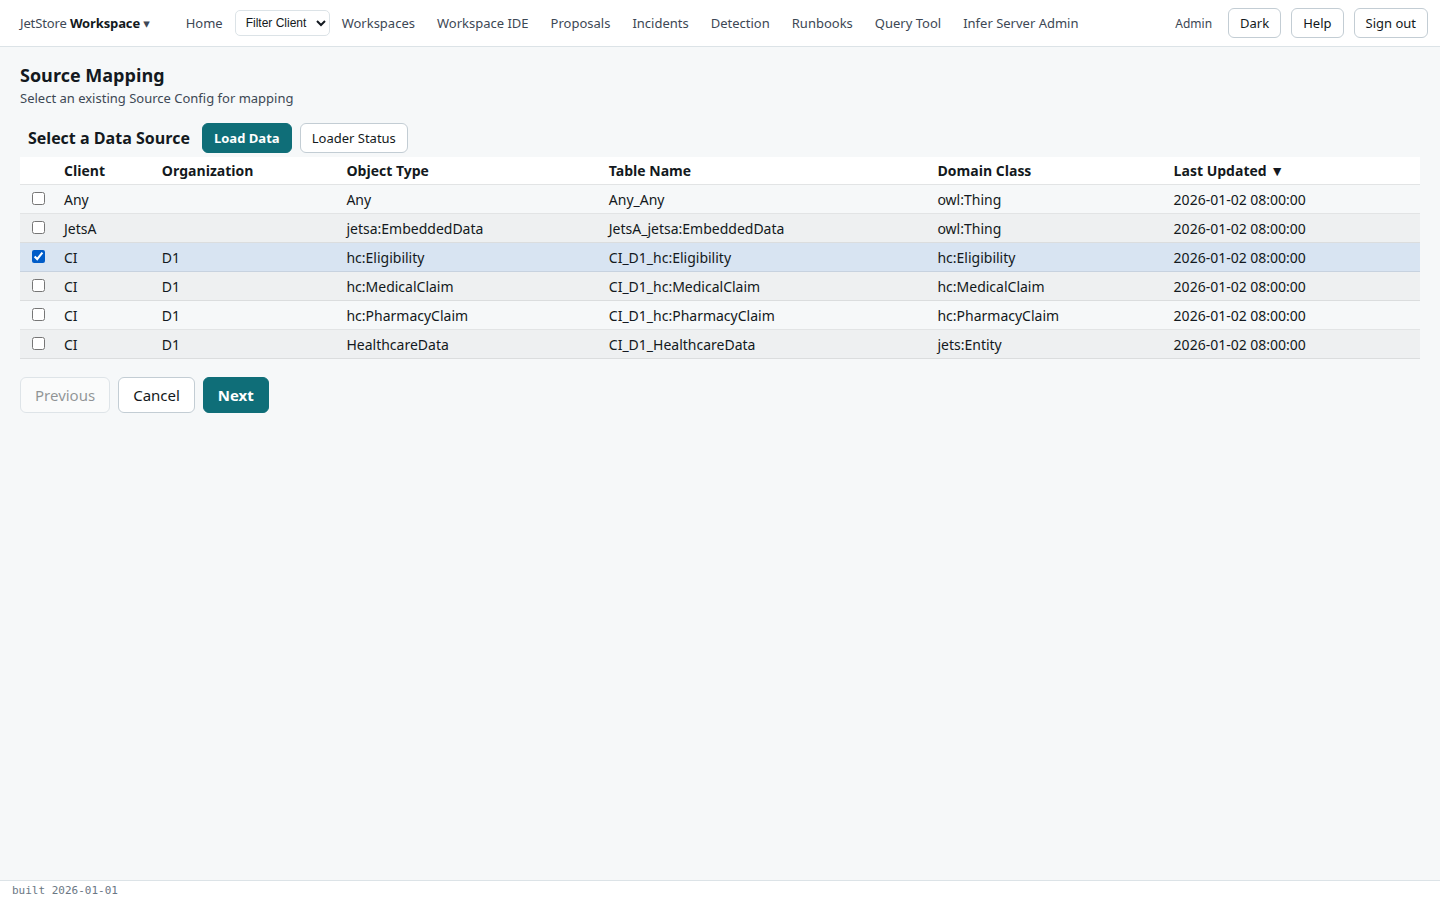
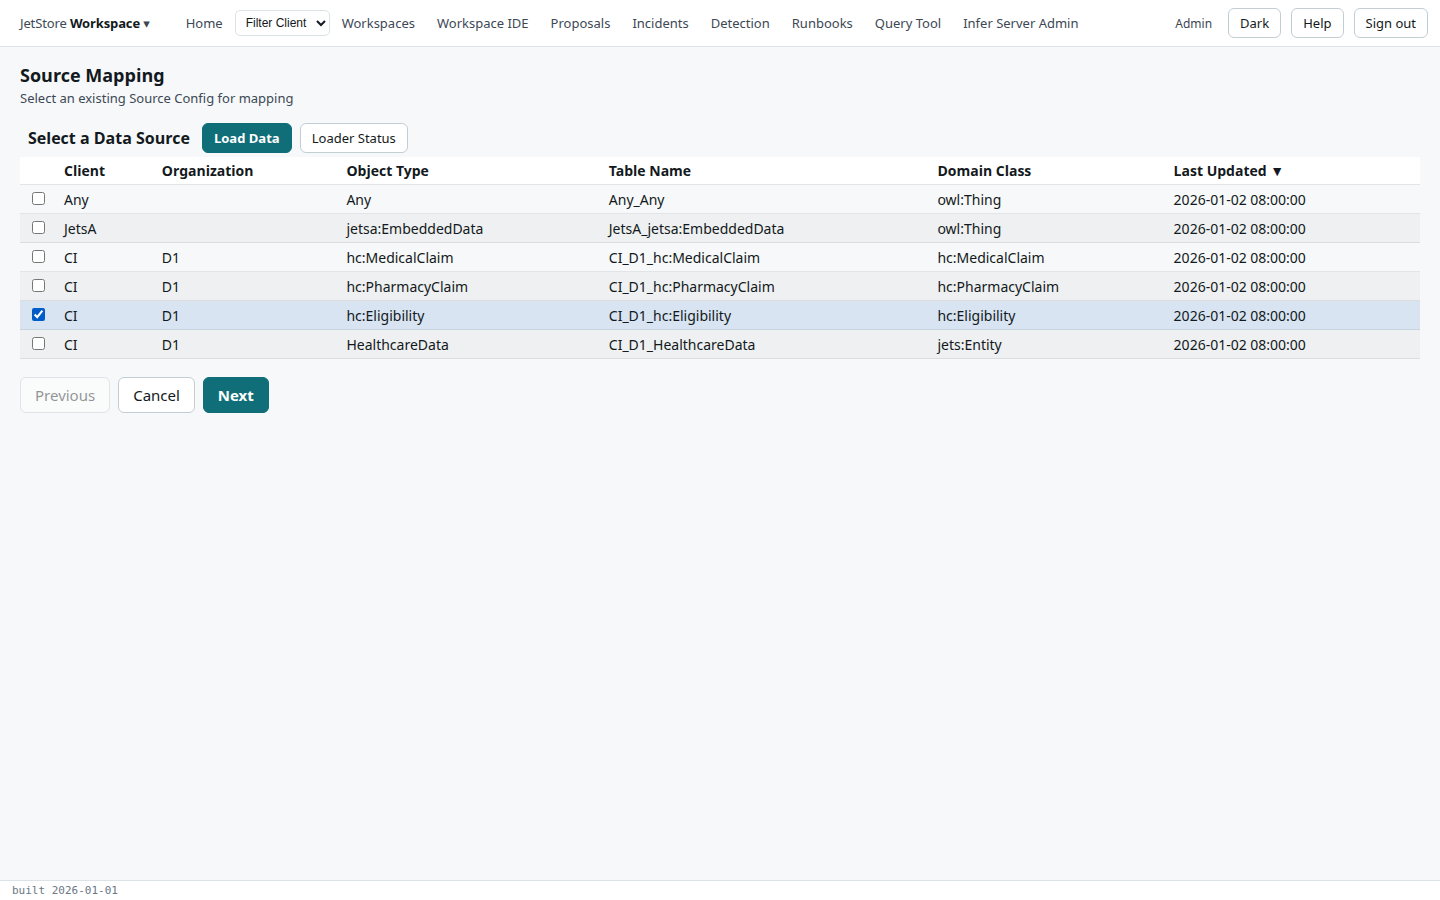
docs: the help map points at the User Guide; cross-links; stable screenshots
The Help button now opens each screen's own page. Every route of App.tsx
names a page under user/screens/, except the catch-all, which keeps the User
Guide's landing page. The eleven titled JetStore flows have their pages in
FLOW_TOPICS, and any other flow lands on the flows' overview. A detail route
(a proposal, an incident, a runbook's run) shares its list's page.
helpTopics.test.ts gains two rules: no route but * may name the landing page,
and every titled flow in jets/workspace_assets/user_flows/ needs a
FLOW_TOPICS row. So a new screen or flow without a page fails the web app's
tests.

Cross-links between the pages written in parallel:
- the screen and flow index tables list every screen and flow;
- the landing page links its tutorials, how-to and screens sections;
- concept, screen and flow pages end with a See also list of the pages that
  show or do what they describe.

docs/screenshots/fixtures/99_analyze.sql runs ANALYZE after the other
fixtures. A data table sorts by one column with LIMIT and OFFSET, so rows
that tie come back in the order the plan produces. Whether autovacuum had
analysed a table first changed that order between runs, and rewrote images
for no change in the UI. With it, three full runs in a row rewrote nothing
after the first, which reordered two lists once.

CLAUDE.md: a screen or flow has a page and a screenshot spec, and a change
to one updates both.

Changed region(s): [[0.0, 0.2489, 1.0, 0.3733]]

diff --git a/jetsclient_ide/src/shell/helpTopics.ts b/jetsclient_ide/src/shell/helpTopics.ts
@@ -15,8 +15,11 @@
  * behind it — so renaming or moving a page the map names means updating the
  * map in the same change.
  *
- * Most routes point at the User Guide's landing page until their screen has a
- * page of its own: the table is complete in routes and sparse in pages.
+ * **Every route but `*` names a page of its own**, and every JetStore flow with
+ * a title has a row in `FLOW_TOPICS`; the test fails on a new route or a new
+ * titled flow without one. A detail route (a proposal, an incident, a run)
+ * shares its list's page, and `flow/:key` lands on the flows' overview for a
+ * flow `FLOW_TOPICS` does not list, such as a workspace's own.
  */
 
 import { matchPath } from "react-router-dom";
@@ -39,33 +42,33 @@ export const DEFAULT_HELP_PAGE = "user/";
  * wins, so `*` stays last.
  */
 export const HELP_TOPICS: ReadonlyArray<HelpTopic> = [
-  { route: "/register", page: "user/" },
-  { route: "/", page: "user/" },
-  { route: "login", page: "user/" },
-  { route: "home", page: "user/" },
-  { route: "workspace", page: "user/" },
-  { route: "workspaces/:workspace_name/home", page: "user/" },
-  { route: "workspaces", page: "user/" },
-  { route: "inferServerAdmin", page: "user/" },
-  { route: "proposals", page: "user/" },
-  { route: "proposals/:proposalId", page: "user/" },
-  { route: "incidents", page: "user/" },
-  { route: "incidents/:incidentId", page: "user/" },
-  { route: "detection", page: "user/" },
-  { route: "runbooks", page: "user/" },
-  { route: "workspaces/:workspace_name/runbooks", page: "user/" },
-  { route: "runbooks/run/:run_key", page: "user/" },
-  { route: "flow/:key", page: "user/" },
-  { route: "git-profile", page: "user/" },
-  { route: "domainTableViewer/:table_name/:session_id", page: "user/" },
-  { route: "filePreviewPath/:file_key", page: "user/" },
-  { route: "executionStatusDetails/:session_id", page: "user/" },
-  { route: "executionStatsDetails/:session_id", page: "user/" },
-  { route: "query-tool", page: "user/" },
-  { route: "processErrors/:session_id", page: "user/" },
-  { route: "userAdmin", page: "user/" },
-  { route: "ruleConfig", page: "user/" },
-  { route: "fileLoaderStatus", page: "user/" },
+  { route: "/register", page: "user/screens/sign-in/" },
+  { route: "/", page: "user/screens/home/" },
+  { route: "login", page: "user/screens/sign-in/" },
+  { route: "home", page: "user/screens/home/" },
+  { route: "workspace", page: "user/screens/workspace-ide/" },
+  { route: "workspaces/:workspace_name/home", page: "user/screens/workspace-ide/" },
+  { route: "workspaces", page: "user/screens/workspaces/" },
+  { route: "inferServerAdmin", page: "user/screens/infer-server-admin/" },
+  { route: "proposals", page: "user/screens/proposals/" },
+  { route: "proposals/:proposalId", page: "user/screens/proposals/" },
+  { route: "incidents", page: "user/screens/incidents/" },
+  { route: "incidents/:incidentId", page: "user/screens/incidents/" },
+  { route: "detection", page: "user/screens/detection/" },
+  { route: "runbooks", page: "user/screens/runbooks/" },
+  { route: "workspaces/:workspace_name/runbooks", page: "user/screens/runbooks/" },
+  { route: "runbooks/run/:run_key", page: "user/screens/runbooks/" },
+  { route: "flow/:key", page: "user/screens/flows/" },
+  { route: "git-profile", page: "user/screens/git-profile/" },
+  { route: "domainTableViewer/:table_name/:session_id", page: "user/screens/table-view/" },
+  { route: "filePreviewPath/:file_key", page: "user/screens/input-file-preview/" },
+  { route: "executionStatusDetails/:session_id", page: "user/screens/pipeline-execution-details/" },
+  { route: "executionStatsDetails/:session_id", page: "user/screens/cpipes-execution-details/" },
+  { route: "query-tool", page: "user/screens/query-tool/" },
+  { route: "processErrors/:session_id", page: "user/screens/process-errors/" },
+  { route: "userAdmin", page: "user/screens/user-administration/" },
+  { route: "ruleConfig", page: "user/screens/rules-configuration/" },
+  { route: "fileLoaderStatus", page: "user/screens/file-loader-status/" },
   { route: "*", page: "user/" },
 ];
 
@@ -73,7 +76,19 @@ export const HELP_TOPICS: ReadonlyArray<HelpTopic> = [
  * A user flow's page, by flow key (`flow/:key`). A flow not listed here gets
  * the `flow/:key` row of `HELP_TOPICS`.
  */
-export const FLOW_TOPICS: Readonly<Record<string, string>> = {};
+export const FLOW_TOPICS: Readonly<Record<string, string>> = {
+  clientRegistryUF: "user/screens/flows/clients-and-vendors/",
+  sourceConfigUF: "user/screens/flows/source-configuration/",
+  fileMappingUF: "user/screens/flows/source-mapping/",
+  mapFileUF: "user/screens/flows/file-mapping-configuration/",
+  pipelineConfigUF: "user/screens/flows/pipeline-configuration/",
+  loadConfigUF: "user/screens/flows/load-client-configurations/",
+  loadFilesUF: "user/screens/flows/load-files/",
+  startPipelineUF: "user/screens/flows/start-pipeline/",
+  homeFiltersUF: "user/screens/flows/pipeline-execution-status-filters/",
+  workspacePullUF: "user/screens/flows/pull-workspace-changes/",
+  rulesUnitTestUF: "user/screens/flows/rules-unit-tests/",
+};
 
 const FLOW_ROUTE = "/flow/:key";
 

diff --git a/jetsclient_ide/src/shell/helpTopics.test.ts b/jetsclient_ide/src/shell/helpTopics.test.ts
@@ -8,7 +8,7 @@
  * else noticing.
  */
 
-import { existsSync, readFileSync } from "node:fs";
+import { existsSync, readdirSync, readFileSync } from "node:fs";
 import { fileURLToPath } from "node:url";
 import { describe, expect, it } from "vitest";
 
@@ -17,6 +17,7 @@ import { DEFAULT_HELP_PAGE, FLOW_TOPICS, HELP_TOPICS, helpPathFor } from "./help
 const here = fileURLToPath(new URL("./", import.meta.url));
 const contentRoot = `${here}../../../docs/src/content/docs/`;
 const appSource = `${here}../App.tsx`;
+const flowsDir = `${here}../../../jets/workspace_assets/user_flows/`;
 
 /**
  * The file behind a page address, or null. `user/` is `user/index.md`; `a/b/`
@@ -79,16 +80,53 @@ describe("the help map's routes", () => {
     expect(new Set(mapped).size).toBe(mapped.length);
     expect(mapped[mapped.length - 1]).toBe("*");
   });
+
+  it("gives every route but the catch-all a page of its own", () => {
+    // The landing page is the answer for a path no route matches, and for
+    // nothing else: a screen without a page fails here rather than opening
+    // the User Guide's front page.
+    expect(
+      HELP_TOPICS.filter((t) => t.route !== "*" && t.page === DEFAULT_HELP_PAGE).map((t) => t.route),
+    ).toEqual([]);
+  });
+});
+
+/** The keys of JetStore's own flows whose `.uf.json` carries a title. */
+function titledFlows(): string[] {
+  return readdirSync(flowsDir)
+    .filter((f) => f.endsWith(".uf.json"))
+    .filter((f) => {
+      const doc = JSON.parse(readFileSync(flowsDir + f, "utf8")) as { title?: unknown };
+      return typeof doc.title === "string" && doc.title !== "";
+    })
+    .map((f) => f.slice(0, -".uf.json".length));
+}
+
+describe("the help map's flows", () => {
+  const flows = titledFlows();
+
+  it("reads the shipped flows", () => {
+    // A guard: an empty list would make the next case pass on nothing.
+    expect(flows.length).toBeGreaterThan(5);
+  });
+
+  it("gives every titled JetStore flow a page", () => {
+    expect(flows.filter((k) => FLOW_TOPICS[k] === undefined)).toEqual([]);
+  });
 });
 
 describe("helpPathFor", () => {
   it("maps a known route", () => {
-    expect(helpPathFor("/home")).toBe("/docs/user/");
+    expect(helpPathFor("/home")).toBe("/docs/user/screens/home/");
   });
 
   it("maps a parameterised route", () => {
-    expect(helpPathFor("/workspaces/ws1/home")).toBe("/docs/user/");
-    expect(helpPathFor("/processErrors/1234")).toBe("/docs/user/");
+    expect(helpPathFor("/workspaces/ws1/home")).toBe("/docs/user/screens/workspace-ide/");
+    expect(helpPathFor("/processErrors/1234")).toBe("/docs/user/screens/process-errors/");
+  });
+
+  it("maps a listed flow to its page", () => {
+    expect(helpPathFor("/flow/startPipelineUF")).toBe("/docs/user/screens/flows/start-pipeline/");
   });
 
   it("maps an unknown path to the User Guide", () => {
@@ -108,7 +146,7 @@ describe("helpPathFor", () => {
     const flowRow = HELP_TOPICS.find((t) => t.route === "flow/:key");
     expect(helpPathFor("/flow/notAFlow")).toBe(`/docs/${flowRow?.page}`);
 
-    // FLOW_TOPICS is empty today; list one for the duration of the case.
+    // List an extra flow for the duration of the case.
     topics["someFlow"] = "developer/";
     try {
       expect(helpPathFor("/flow/someFlow")).toBe("/docs/developer/");

diff --git a/jetsclient_ide/src/shell/helpButton.test.tsx b/jetsclient_ide/src/shell/helpButton.test.tsx
@@ -128,7 +128,7 @@ describe("the Help button", () => {
 
     expect(open).toHaveBeenCalledWith("", "_blank");
     await waitFor(() => expect(tab.location.href).toBe(helpPathFor("/workspaces/ws1/home")));
-    expect(tab.location.href).toBe("/docs/user/");
+    expect(tab.location.href).toBe("/docs/user/screens/workspace-ide/");
     expect(tab.opener).toBeNull();
     expect(session).toHaveBeenCalledTimes(1);
     expect(tab.close).not.toHaveBeenCalled();

diff --git a/docs/src/content/docs/user/screens/index.md b/docs/src/content/docs/user/screens/index.md
@@ -80,3 +80,14 @@ A user flow is a screen that takes you through a task in steps, one form or tabl
 | [Staging Table or Domain Table View](/docs/user/screens/table-view/) | the rows one session wrote to one table | Home's *Data Registry*, and *File Loader Status* |
 | [Input File Preview](/docs/user/screens/input-file-preview/) | the first lines of a file, as it arrived | the *Load Files* flow |
 | [Query Tool](/docs/user/screens/query-tool/) | the result of an SQL statement you write | the top bar |
+| [Sign in and register](/docs/user/screens/sign-in/) | signing in, and registering an account | the address of the installation |
+| [Workspaces](/docs/user/screens/workspaces/) | the workspaces of the installation, and compiling, committing, pulling and loading configuration | the top bar |
+| [Workspace IDE](/docs/user/screens/workspace-ide/) | a workspace's files, edited and compiled, and its overrides | the top bar, or *Workspaces* |
+| [Rules Configuration](/docs/user/screens/rules-configuration/) | the objects the rules read at the start of each session | the *JetStore Workspace* menu |
+| [Git Profile](/docs/user/screens/git-profile/) | the name, email and token JetStore commits with | your name in the top bar |
+| [User Administration](/docs/user/screens/user-administration/) | accounts, their roles, and activating them | the *JetStore Workspace* menu |
+| [Runbooks](/docs/user/screens/runbooks/) | a workspace's runbooks, their runs and one run's steps | the top bar, or *Workspaces* |
+| [Proposals](/docs/user/screens/proposals/) | the changes AI agents propose, and their decisions | the top bar |
+| [Incidents](/docs/user/screens/incidents/) | incidents raised over runs, and their hypotheses and verdicts | the top bar |
+| [Detection](/docs/user/screens/detection/) | whether the detection and triage tasks ran | the top bar |
+| [Infer Server Admin](/docs/user/screens/infer-server-admin/) | the GPU inference server and its models | the top bar |

diff --git a/docs/src/content/docs/user/index.md b/docs/src/content/docs/user/index.md
@@ -30,9 +30,9 @@ should not have to find it between steps.
 | Kind | Answers | Where |
 |---|---|---|
 | **Concepts** | *why is it like this?* What each idea in JetStore is, and why it is that way | [Concepts](/docs/user/concepts/) |
-| **Tutorials** | *teach me*: a whole task, start to finish, to learn by doing | Tutorials |
-| **How-to guides** | *help me do this*: one task, as numbered steps | How-to guides |
-| **Screens** | *tell me exactly*: each screen and each user flow, its controls and columns, and the capability it needs | Screens |
+| **Tutorials** | *teach me*: a whole task, start to finish, to learn by doing | [Tutorials](/docs/user/tutorials/) |
+| **How-to guides** | *help me do this*: one task, as numbered steps | [How-to guides](/docs/user/how-to/) |
+| **Screens** | *tell me exactly*: each screen and each user flow, its controls and columns, and the capability it needs | [Screens](/docs/user/screens/) |
 
 The *Help* button in JetStore's top bar opens the page for the screen you are on.
 
@@ -40,8 +40,8 @@ The *Help* button in JetStore's top bar opens the page for the screen you are on
 
 1. **Read [JetStore in one page](/docs/user/concepts/jetstore/)**, then the other concepts in the
    order the [Concepts](/docs/user/concepts/) page lists them. Each builds on the one before.
-2. **Do the first tutorial**, which takes a new file all the way to a pipeline's output. If you will
-   write rules, do the second as well: a first rule change, compiled and tested.
+2. **Do the [first tutorial](/docs/user/tutorials/first-pipeline/)**, which takes a new file all the way to a pipeline's output. If you will
+   write rules, do [the second](/docs/user/tutorials/first-rule-change/) as well: a first rule change, compiled and tested.
 3. **From then on, use the how-to guides and the screen pages as you need them.** Press *Help* on a
    screen to land on its page.
 

diff --git a/docs/src/content/docs/user/screens/flows/index.md b/docs/src/content/docs/user/screens/flows/index.md
@@ -41,3 +41,9 @@ are already in it.
 | [Load Files](/docs/user/screens/flows/load-files/) | loads files into their staging table | the *Source Mapping* flow, *Load Data* |
 | [File Mapping Configuration](/docs/user/screens/flows/file-mapping-configuration/) | the worksheet that maps a source's columns onto the data model | the *Source Mapping* flow, *Configure Mapping* |
 | [Load Client Configurations](/docs/user/screens/flows/load-client-configurations/) | loads clients' configuration from the workspace into the database | the *Workspaces* screen, *Load Client Config* |
+| [Clients & Vendors](/docs/user/screens/flows/clients-and-vendors/) | lists, adds and deletes clients and their vendors | the *JetStore Workspace* menu |
+| [Source Configuration](/docs/user/screens/flows/source-configuration/) | adds, edits and deletes source configurations | the *JetStore Workspace* menu |
+| [Source Mapping](/docs/user/screens/flows/source-mapping/) | shows how a source's columns map, and loads its files | the *JetStore Workspace* menu |
+| [Pipeline Configuration](/docs/user/screens/flows/pipeline-configuration/) | adds, edits and deletes a client's pipeline configurations | the *JetStore Workspace* menu |
+| [Pull Workspace Changes](/docs/user/screens/flows/pull-workspace-changes/) | brings commits made elsewhere into the installation's workspace | the *Workspaces* screen, *Pull Workspace* |
+| [Rules Unit Tests](/docs/user/screens/flows/rules-unit-tests/) | runs a workspace's rules unit tests and shows their results | the *Workspaces* screen |

diff --git a/CLAUDE.md b/CLAUDE.md
@@ -50,7 +50,13 @@ is for readers.
 - **No client vocabulary**: this repository is public, so no page names a client, its workspace, its
   rule vocabulary or its data. Examples use `jets_ws` or invented names. Cite code by path and
   identifier, never by line number.
-- How to write and preview a page: `docs/src/content/docs/developer/contributing/documentation.md`.
+- **A screen or a flow has a page and a screenshot spec**: `user/screens/` and `user/screens/flows/`,
+  and `docs/screenshots/specs/`. A change to a screen or a flow updates its page, its spec and its
+  images (`npm run shots` in `docs/screenshots/`), and a new route or titled flow gets a page and a row
+  in `helpTopics.ts`, whose test fails otherwise. A how-to's steps are its spec's steps, so a change
+  that breaks a spec owes the how-to an update.
+- How to write and preview a page: `docs/src/content/docs/developer/contributing/documentation.md`;
+  how to take its screenshots: `developer/contributing/screenshots.md`.
 
 ## Build Commands
 

diff --git a/docs/src/content/docs/user/concepts/rule-engine.md b/docs/src/content/docs/user/concepts/rule-engine.md
@@ -111,3 +111,11 @@ reaches a pipeline, **rules unit tests** can check it: each test, a `.tst.json` 
 `jet_rules/unit_tests/`, gives the rules some input entities and says which facts must and must not
 hold afterwards. They are run from the *Workspaces* screen. How to write them is in the Developer's
 Guide, under [Rules unit tests](/docs/developer/testing/rules-unit-tests/).
+
+## See also
+
+- [Process Errors](/docs/user/screens/process-errors/)
+- [Rules Configuration](/docs/user/screens/rules-configuration/)
+- [Rules Unit Tests](/docs/user/screens/flows/rules-unit-tests/)
+- [Run rules unit tests](/docs/user/how-to/run-rules-unit-tests/)
+- [Your first rule change](/docs/user/tutorials/first-rule-change/)

diff --git a/docs/src/content/docs/user/concepts/pipelines-and-sessions.md b/docs/src/content/docs/user/concepts/pipelines-and-sessions.md
@@ -112,3 +112,13 @@ record of what ran survives the data.
 
 Deleting a session needs the `delete_session` capability. An installation may also delete sessions
 older than its retention period on a schedule, by the same path.
+
+## See also
+
+- [Pipeline Configuration](/docs/user/screens/flows/pipeline-configuration/)
+- [Start Pipeline](/docs/user/screens/flows/start-pipeline/)
+- [Home](/docs/user/screens/home/)
+- [Pipeline Execution Details](/docs/user/screens/pipeline-execution-details/)
+- [Process Errors](/docs/user/screens/process-errors/)
+- [Run a pipeline](/docs/user/how-to/run-a-pipeline/)
+- [Delete a session](/docs/user/how-to/delete-a-session/)

diff --git a/docs/src/content/docs/user/concepts/workspaces.md b/docs/src/content/docs/user/concepts/workspaces.md
@@ -89,3 +89,12 @@ Knowledge Engineer writes in one place, under version control, reviewed like cod
 
 How a workspace is compiled, overridden and seeded onto the machines that run pipelines is described
 for developers in [Workspaces](/docs/developer/workspace/).
+
+## See also
+
+- [Workspaces](/docs/user/screens/workspaces/)
+- [Workspace IDE](/docs/user/screens/workspace-ide/)
+- [Pull Workspace Changes](/docs/user/screens/flows/pull-workspace-changes/)
+- [Load Client Configurations](/docs/user/screens/flows/load-client-configurations/)
+- [Runbooks](/docs/user/screens/runbooks/)
+- [Work on a workspace](/docs/user/how-to/work-on-a-workspace/)

diff --git a/docs/src/content/docs/user/screens/home.md b/docs/src/content/docs/user/screens/home.md
@@ -168,3 +168,10 @@ Its columns are those of *Pipelines Status*, and two more:
 Its buttons, *Refresh*, *Set Filters*, *Set Session Id*, *Set Request Id* and *Clear Filters*, work
 as on *Pipelines Status*, and the filters are the same ones: a filter set on either tab applies to
 both. No run here can be acted on, so it has no check boxes.
+
+## See also
+
+- [Run a pipeline](/docs/user/how-to/run-a-pipeline/)
+- [Delete a session](/docs/user/how-to/delete-a-session/)
+- [Look at loaded data](/docs/user/how-to/look-at-loaded-data/)
+- [Read a run's process errors](/docs/user/how-to/read-process-errors/)

diff --git a/docs/src/content/docs/user/concepts/files-and-the-input-registry.md b/docs/src/content/docs/user/concepts/files-and-the-input-registry.md
@@ -94,3 +94,11 @@ the mapping expects.
 The steps between a file landing and a pipeline starting, and the points where a file can be accepted
 with nothing happening, are traced in the Installation Guide's
 [How a file starts a pipeline](/docs/install/planning/ingest-data-flow/).
+
+## See also
+
+- [Load Files](/docs/user/screens/flows/load-files/)
+- [File Loader Status](/docs/user/screens/file-loader-status/)
+- [Home](/docs/user/screens/home/)
+- [Staging Table or Domain Table View](/docs/user/screens/table-view/)
+- [Look at loaded data](/docs/user/how-to/look-at-loaded-data/)
